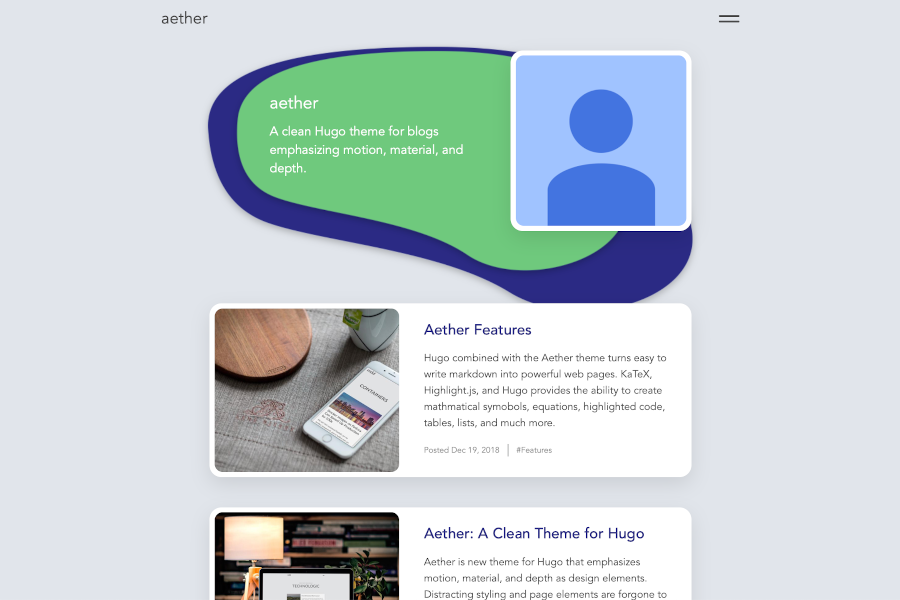
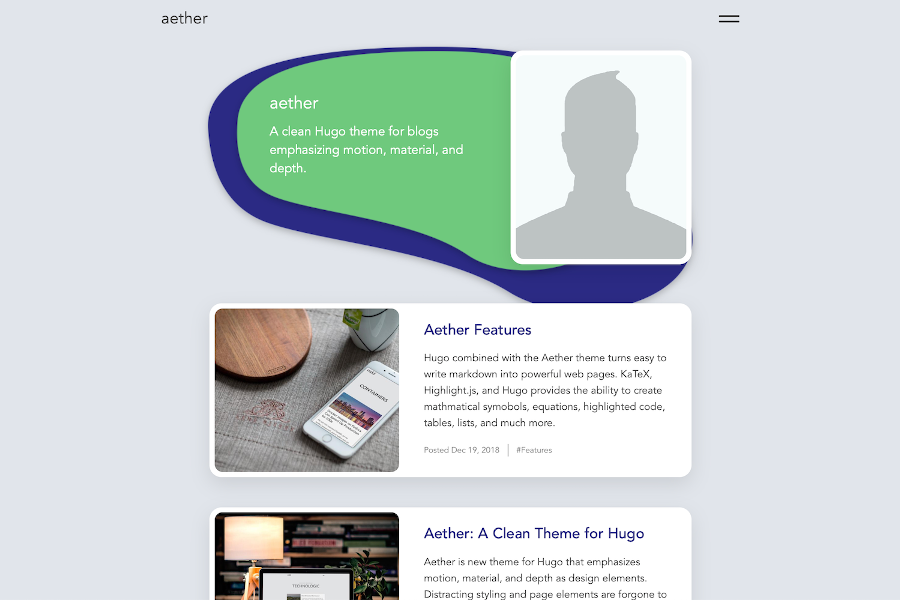
Make headshot url a parameter

diff --git a/layouts/_default/home.html b/layouts/_default/home.html
@@ -10,7 +10,7 @@
         {{ with .Title }}<h1 class="home-blob-title">{{ . }}</h1>{{ end }}
         {{ with .Description }}<p class="home-blob-text">{{ . }}</p>{{ end }}
         </div>
-        {{ with resources.Get "img/faceshot.png" -}}
+        {{ with resources.GetMatch .Site.Params.headshotimg -}}
         <div class="home-faceshot-card">
           <img class="home-faceshot" src="{{ .Permalink }}" >
         </div>
